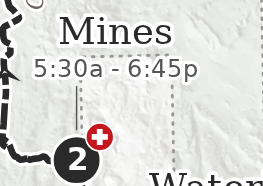
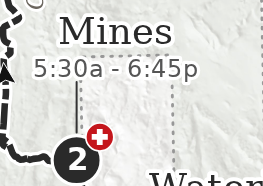
One shared leader-line style for all pointer lines; S/F label moved right; black arrows with white hairline

Changed region(s): [[0.2738, 0.4301, 0.3042, 0.7258], [0.0, 0.3226, 0.0913, 0.457]]

diff --git a/site/lib/labels.ts b/site/lib/labels.ts
@@ -1,17 +1,17 @@
 // Standard label templates. Content (/content/station_labels.geojson, poi_labels.geojson) holds position,
 // alignment and text; styling + line layout live here so every station / POI label looks the same.
-import { esc, f1 } from './util';
+import { esc, f1, leaderLine } from './util';
 import type { Ctx, Feature } from './types';
 
 export type Align = 'left' | 'right' | 'center';
 type Line = { text: string; size: number; serif: boolean; color: string; weight: number; italic: boolean; halo: number; cls?: string };
 
 // Aid-station template (modeled on Contrabando): serif name, then sans info lines (location, hours) centred below.
-export const STATION_TPL = { name: { size: 34, color: '#2a2a2a', halo: 7 }, info: { size: 22, color: '#555555', halo: 6 }, nameLead: 1.15, gap: 6, infoLead: 1.2, leader: { color: '#555555', width: 1.3, minGap: 14, pad: 5 } };
+export const STATION_TPL = { name: { size: 34, color: '#2a2a2a', halo: 7 }, info: { size: 22, color: '#555555', halo: 6 }, nameLead: 1.15, gap: 6, infoLead: 1.2 };
 // POI template: serif semibold-italic title, serif italic notes.
-export const POI_TPL = { title: { size: 21, color: '#6b665e', halo: 7 }, note: { size: 18, color: '#8a8580', halo: 7 }, titleLead: 1.15, gap: 4, noteLead: 1.25, leader: { color: '#555555', width: 1.3, minGap: 10, pad: 4 } };
+export const POI_TPL = { title: { size: 21, color: '#6b665e', halo: 7 }, note: { size: 18, color: '#8a8580', halo: 7 }, titleLead: 1.15, gap: 4, noteLead: 1.25 };
 
-const wEst = (l: Line) => l.text.length * l.size * (l.serif ? 0.6 : 0.58);
+const wEst = (l: Line) => l.text.length * l.size * (l.serif ? (l.italic ? 0.5 : 0.56) : 0.56);
 /** lays out lines top-down from the block centre (x, y); returns svg + bbox */
 function block(x: number, y: number, align: Align, lines: Line[], leads: number[]) {
   let h = 0; const ys: number[] = [];
@@ -20,15 +20,20 @@ function block(x: number, y: number, align: Align, lines: Line[], leads: number[
   const W = Math.max(...lines.map(wEst)), x0 = align === 'left' ? x : align === 'right' ? x - W : x - W / 2;
   const svg = lines.map((l, i) => `<text x="${f1(x)}" y="${f1(top + ys[i])}" class="f-${l.serif ? 'serif' : 'sans'}${l.cls ? ' ' + l.cls : ''}" font-size="${l.size}" fill="${l.color}" font-style="${l.italic ? 'italic' : 'normal'}" font-weight="${l.weight}" text-anchor="${anchor}" dominant-baseline="central" stroke="#ffffff" stroke-width="${l.halo}" paint-order="stroke" stroke-linejoin="round">${esc(l.text)}</text>`).join('');
   const b = { x0, x1: x0 + W, y0: top - lines[0].size / 2, y1: top + h + lines[lines.length - 1].size / 2 };
-  return { svg, b };
+  const boxes = lines.map((l, i) => { const w = wEst(l), lx = align === 'left' ? x : align === 'right' ? x - w : x - w / 2, cy = top + ys[i]; return { x0: lx, x1: lx + w, y0: cy - l.size * 0.42, y1: cy + l.size * 0.42 }; });
+  const w0 = wEst(lines[0]), t0 = align === 'left' ? x : align === 'right' ? x - w0 : x - w0 / 2;
+  const tb = { x0: t0, x1: t0 + w0, y0: top - lines[0].size / 2, y1: top + lines[0].size / 2 }; // first line only
+  return { svg, b, tb, boxes };
 }
-/** straight leader from the block edge to a target circle of radius r (skipped when the label is already close) */
-function leader(b: { x0: number; x1: number; y0: number; y1: number }, tx: number, ty: number, r: number, L: { color: string; width: number; minGap: number; pad: number }) {
-  const px = Math.max(b.x0, Math.min(tx, b.x1)), py = Math.max(b.y0, Math.min(ty, b.y1));
-  const dx = tx - px, dy = ty - py, d = Math.hypot(dx, dy);
-  if (d - r < L.minGap) return '';
-  const ux = dx / d, uy = dy / d;
-  return `<path d="M${f1(px + ux * L.pad)},${f1(py + uy * L.pad)}L${f1(tx - ux * (r + L.pad))},${f1(ty - uy * (r + L.pad))}" fill="none" stroke="${L.color}" stroke-width="${L.width}"/>`;
+type Box = { x0: number; x1: number; y0: number; y1: number };
+/** leader from the label text (just below/above it when the marker is below/above, else nearest line edge) to the marker */
+function leader(boxes: Box[], tx: number, ty: number, r: number) {
+  const first = boxes[0], last = boxes[boxes.length - 1];
+  let best: [number, number, number] | null = null;
+  if (ty > last.y1) { const px = Math.max(last.x0, Math.min(tx, last.x1)); best = [px, last.y1, 0]; }
+  else if (ty < first.y0) { const px = Math.max(first.x0, Math.min(tx, first.x1)); best = [px, first.y0, 0]; }
+  else for (const b of boxes) { const px = Math.max(b.x0, Math.min(tx, b.x1)), py = Math.max(b.y0, Math.min(ty, b.y1)), d = Math.hypot(tx - px, ty - py); if (!best || d < best[2]) best = [px, py, d]; }
+  return best ? leaderLine(best[0], best[1], tx, ty, 0, r) : '';
 }
 
 export function stationLabel(c: Ctx, f: Feature, p: (ll: [number, number]) => [number, number], radius: (k: string) => number) {
@@ -41,9 +46,9 @@ export function stationLabel(c: Ctx, f: Feature, p: (ll: [number, number]) => [n
     ...info.map((t) => ({ text: t, size: T.info.size, serif: false, color: T.info.color, weight: 400, italic: false, halo: T.info.halo })),
   ];
   const leads = lines.map((l, i) => (i === 0 ? 0 : i < nameLines.length ? T.name.size * T.nameLead : i === nameLines.length ? T.name.size / 2 + T.gap + T.info.size / 2 : T.info.size * T.infoLead));
-  const { svg, b } = block(x, y, (q.align ?? 'center') as Align, lines, leads);
+  const { svg, boxes } = block(x, y, (q.align ?? 'center') as Align, lines, leads);
   const [sx, sy] = p(s.lonlat);
-  return `<g class="stlabel" data-station="${esc(q.station)}">${leader(b, sx, sy, radius(q.station), T.leader)}${svg}</g>`;
+  return `<g class="stlabel" data-station="${esc(q.station)}">${leader(boxes, sx, sy, radius(q.station))}${svg}</g>`;
 }
 
 export function poiLabel(f: Feature, p: (ll: [number, number]) => [number, number], targetR = 6) {
@@ -54,7 +59,8 @@ export function poiLabel(f: Feature, p: (ll: [number, number]) => [number, numbe
     ...notes.map((n) => ({ text: n.text, size: T.note.size, serif: true, color: T.note.color, weight: 400, italic: true, halo: T.note.halo, cls: n.distance ? 'dist' : '' })),
   ];
   const leads = lines.map((l, i) => (i === 0 ? 0 : i === 1 ? T.title.size / 2 + T.gap + T.note.size / 2 : T.note.size * T.noteLead));
-  const { svg, b } = block(x, y, (q.align ?? 'center') as Align, lines, leads);
-  const lead = q.target ? (() => { const [tx, ty] = p(q.target); return leader(b, tx, ty, targetR, T.leader); })() : '';
+  const { svg, boxes } = block(x, y, (q.align ?? 'center') as Align, lines, leads);
+  // POI leaders always run from the title to the POI dot
+  const lead = q.target ? (() => { const [tx, ty] = p(q.target); return leader(boxes, tx, ty, targetR); })() : '';
   return `<g class="poilabel" data-poi="${esc(q.poi)}">${lead}${svg}</g>`;
 }

diff --git a/site/lib/mainmap.ts b/site/lib/mainmap.ts
@@ -1,5 +1,5 @@
 import { stationLabel, poiLabel } from './labels';
-import { poiDot, SHEET, viewProjection, esc, f1, lineD, dash, STYLE, station, textBlock } from './util';
+import { leaderLine, poiDot, SHEET, viewProjection, esc, f1, lineD, dash, STYLE, station, textBlock } from './util';
 // user-toggleable layers (off-course roads, access styles, arrows and aid stations are always shown)
 const LAYERS: [string, string, boolean][] = [
   ['topo', 'Topo shading', true], ['park', 'Park boundary', true],
@@ -59,7 +59,7 @@ export function renderMain(c) {
     if (p.kind === 'curved') { add('labels', curvedLabel(f, V, col)); continue; }
     const [x, y] = V.p(f.geometry.coordinates);
     let lead = '';
-    if (p.leader) lead = `<path d="${lineD(p.leader.coords.map(V.p))}" fill="none" stroke="${p.leader.color}" stroke-width="${p.leader.lw}"/>`;
+    if (p.leader) { const P = p.leader.coords.map(V.p); lead = leaderLine(P[0][0], P[0][1], P[P.length - 1][0], P[P.length - 1][1]); }
     const layer = p.kind === 'station_number' || p.kind === 'station_label' ? 'stations' : p.kind === 'zoombox_label' ? 'zoom' : p.kind === 'poi_label' ? 'pois' : 'labels';
     if (p.kind === 'station_label' || p.kind === 'poi_label') continue; // replaced by the label templates below
     if (p.kind === 'station_number') continue; // numbers are part of the station marker template
@@ -91,7 +91,7 @@ export function chevron(f, V, col) {
   const ux = dx / n0, uy = dy / n0, u = p.size_pt * 1.5, cx0 = (0.6 - 0.5) / 2; // centre the shape's length on the route point
   const pts = DART.map(([x, y]) => [c[0] + ((x - cx0) * ux - y * uy) * u, c[1] + ((x - cx0) * uy + y * ux) * u]);
   const sw = p.map === 'main' ? 0.9 : 0.8; // hairline: ~0.4 pt printed, ~0.5–0.6 px on screen
-  return `<path class="arrow" d="M${pts.map((q) => `${f1(q[0])},${f1(q[1])}`).join('L')}Z" fill="#fff" stroke="${col.ink}" stroke-width="${sw}" stroke-linejoin="miter" stroke-miterlimit="10"/>`;
+  return `<path class="arrow" d="M${pts.map((q) => `${f1(q[0])},${f1(q[1])}`).join('L')}Z" fill="#111111" stroke="#ffffff" stroke-width="${sw}" stroke-linejoin="miter" stroke-miterlimit="10"/>`;
 }
 let cid = 0;
 function curvedLabel(f, V, col) {

diff --git a/site/lib/panels.ts b/site/lib/panels.ts
@@ -1,4 +1,4 @@
-import { SHEET, viewProjection, esc, f1, lineD, dash, station } from './util';
+import { leaderLine, SHEET, viewProjection, esc, f1, lineD, dash, station } from './util';
 import { hillImage, chevron } from './mainmap';
 /** '5:00 AM' -> '5a', '8:30 AM' -> '8:30a' (minutes only when non-zero) */
 export const startShort = (t: string) => { const [hm, ap] = t.split(' '), [h, m] = hm.split(':'); return `${Number(h)}${m === '00' ? '' : ':' + m}${ap === 'PM' ? 'p' : 'a'}`; };
@@ -103,7 +103,7 @@ export function renderProfile(c) {
   const lgx = W - 140, lgy = 16; s += `<rect x="${lgx - 10}" y="${lgy - 6}" width="140" height="${O.length * 32 + 10}" fill="#fff" fill-opacity=".9"/>`;
   O.forEach((k, i) => { s += `<path d="M${lgx},${lgy + 14 + i * 32}h36" stroke="${c.courses.colors[k]}" stroke-width="4"/><text x="${lgx + 46}" y="${lgy + 14 + i * 32}" font-size="22" dominant-baseline="central" fill="${col.ink}">${k}</text>`; });
   for (const q of pr.callouts.callouts) {
-    for (const x of q.xs) s += `<path d="M${f1(X(x))},${f1(Y(q.y))}L${f1(X(q.bx))},${f1(Y(q.by))}" stroke="#555" stroke-width="1.2"/><circle cx="${f1(X(x))}" cy="${f1(Y(q.y))}" r="3" fill="${col.ink}"/>`;
+    for (const x of q.xs) s += leaderLine(X(q.bx), Y(q.by), X(x), Y(q.y), Math.sqrt(950) / 2, 3) + `<circle cx="${f1(X(x))}" cy="${f1(Y(q.y))}" r="3" fill="${col.ink}"/>`;
     s += station(X(q.bx), Y(q.by), q.lab, c.stations.stations[q.lab].spectator, { s: 950, fs: 24, badge: false, colors: col });
   }
   for (const r of pr.callouts.rincon) s += `<circle cx="${f1(X(r.mi))}" cy="${f1(Y(r.ft))}" r="6.3" fill="#fff" stroke="${col.ink}" stroke-width="3"/>`;

diff --git a/site/lib/util.ts b/site/lib/util.ts
@@ -97,3 +97,13 @@ export function simplifyPts(P: [number, number][], tol: number): [number, number
   }
   return P.filter((_, i) => keep[i]);
 }
+
+/** THE leader-line style — every pointer line on the site (station/POI labels, profile callouts, …) uses leaderLine(). */
+export const LEADER = { color: '#333333', width: 1.8, gap: 3, minLen: 6 };
+/** straight leader from point a to point b; each end stops `gap` outside an optional circle of radius ra / rb */
+export function leaderLine(ax: number, ay: number, bx: number, by: number, ra = 0, rb = 0): string {
+  const d = Math.hypot(bx - ax, by - ay), L = LEADER;
+  if (!d || d - ra - rb - 2 * L.gap < L.minLen) return '';
+  const ux = (bx - ax) / d, uy = (by - ay) / d, s0 = ra + L.gap, s1 = rb + L.gap;
+  return `<path class="leader" d="M${f1(ax + ux * s0)},${f1(ay + uy * s0)}L${f1(bx - ux * s1)},${f1(by - uy * s1)}" fill="none" stroke="${L.color}" stroke-width="${L.width}" stroke-linecap="round"/>`;
+}

diff --git a/README.md b/README.md
@@ -55,7 +55,8 @@ Station labels render the computed hours directly.
 Current sections: `10-map` (side-by-side map sheet), `20-stations` (aid stations & cutoffs). Print/PDF contains the map sheet only.
 
 * `lib/mainmap.ts` – main map inline SVG; one `<g class="layer">` per toggle + legend, scale bar, north arrow, logo.
-* `lib/labels.ts` – the standard station and POI label templates (fonts, sizes, line spacing, alignment, leaders).
+* `lib/labels.ts` – the standard station and POI label templates (fonts, sizes, line spacing, alignment).
+* `lib/util.ts` `LEADER` / `leaderLine()` – the one leader-line style used by every pointer line (labels, profile callouts).
 * `lib/panels.ts` – mini maps, timeline strips, elevation profile (all SVG).
 * `lib/util.ts` – projection (Mercator fitted to the layout view windows), page-space path simplification, styles.
 
